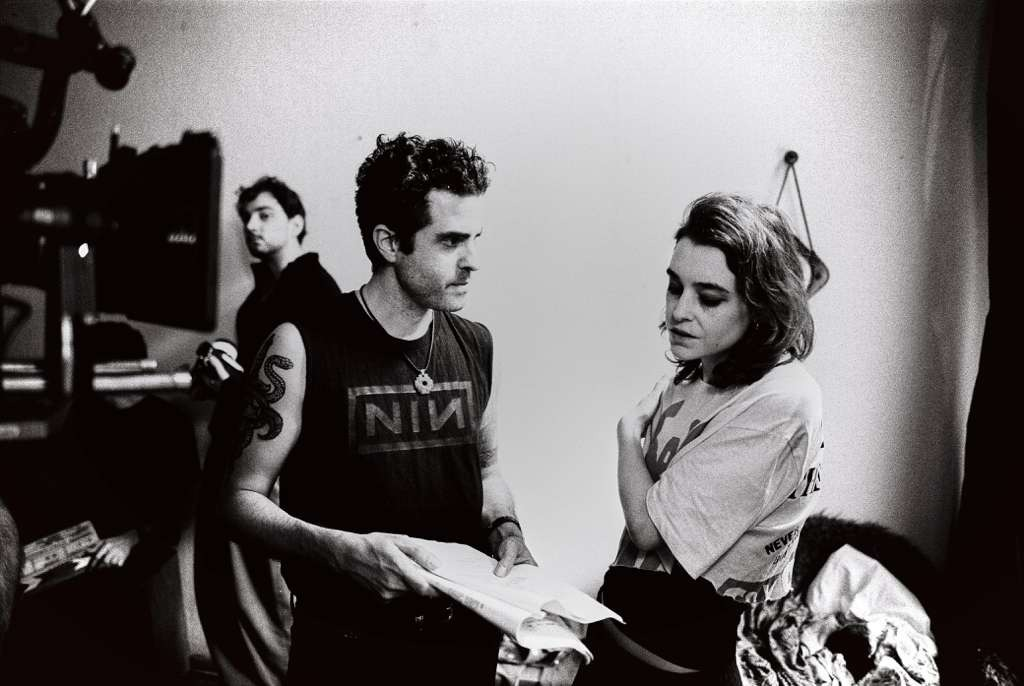
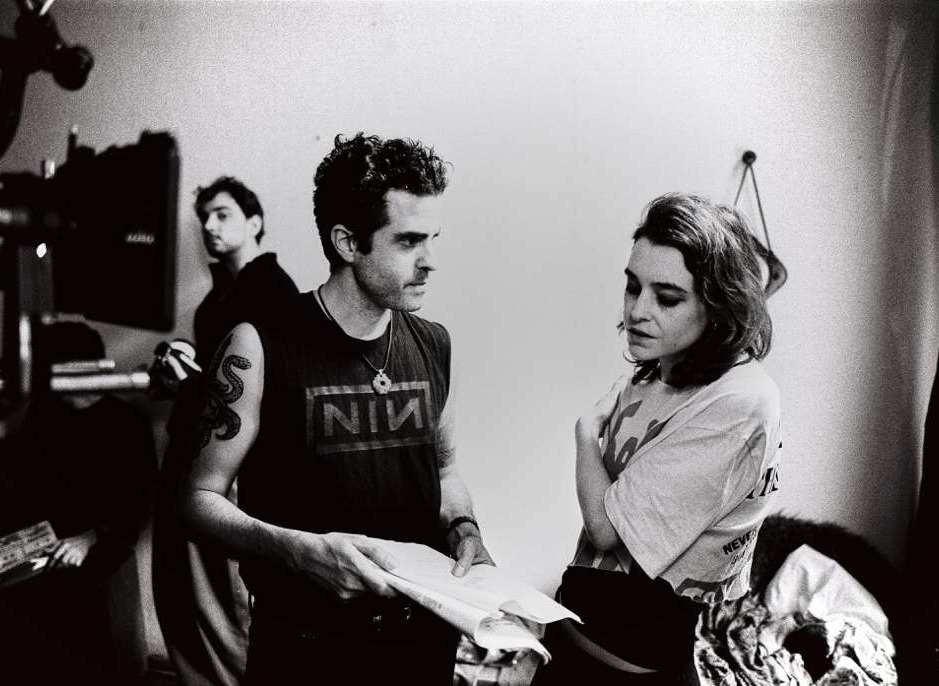
Opening photos cropped to the old window shapes so the large one stays on screen
Claude-Session: https://claude.ai/code/session_017pet1xdoD4qsmDKCnpEuuB

diff --git a/DECISIONS.md b/DECISIONS.md
@@ -91,4 +91,4 @@
 | D-87 | The Festival circuit lives inside each film's section (before its watch beat), in the reel container: "Festival circuit" prints in letter by letter where the film title used to sit, then the awards roll through a smaller box (56px laurels, smaller type). The standalone Festival circuit scene is gone | Adam's direction |
 | D-88 | Scroll cue: a viewfinder scale (small ticks all the way down the thin line), the rolling light carries a short crossbar, and "SCROLL DOWN" (translated) sits beneath. It shows only at the very top of the page (first 4 px) and comes back whenever the visitor returns to the top; hidden while playing | Adam's direction (replaces "gone for good", D-85) |
 | D-89 | Festival roll inside the reels runs wide (up to 1080px, inside the reel container): every festival line stays on one line and the dot leaders run longer. Phones keep the narrower wrap so long names stay readable | Adam's direction |
-| D-90 | Opening windows use the behind-the-scenes photos (image01 large right, image02 small left), alt "On set, behind the scenes"; reel 1 key image replaced (clapperboard by the water). Email corrected to njs@disziplin.org | Adam delivered / corrected, 19 Nov |
+| D-90 | Opening windows use the behind-the-scenes photos (image01 large right, image02 small left), cropped to the old window shapes (5:3 and 4:3) so the layout is unchanged and nothing runs off screen, alt "On set, behind the scenes"; reel 1 key image replaced (clapperboard by the water). Email corrected to njs@disziplin.org | Adam delivered / corrected, 19 Nov |
